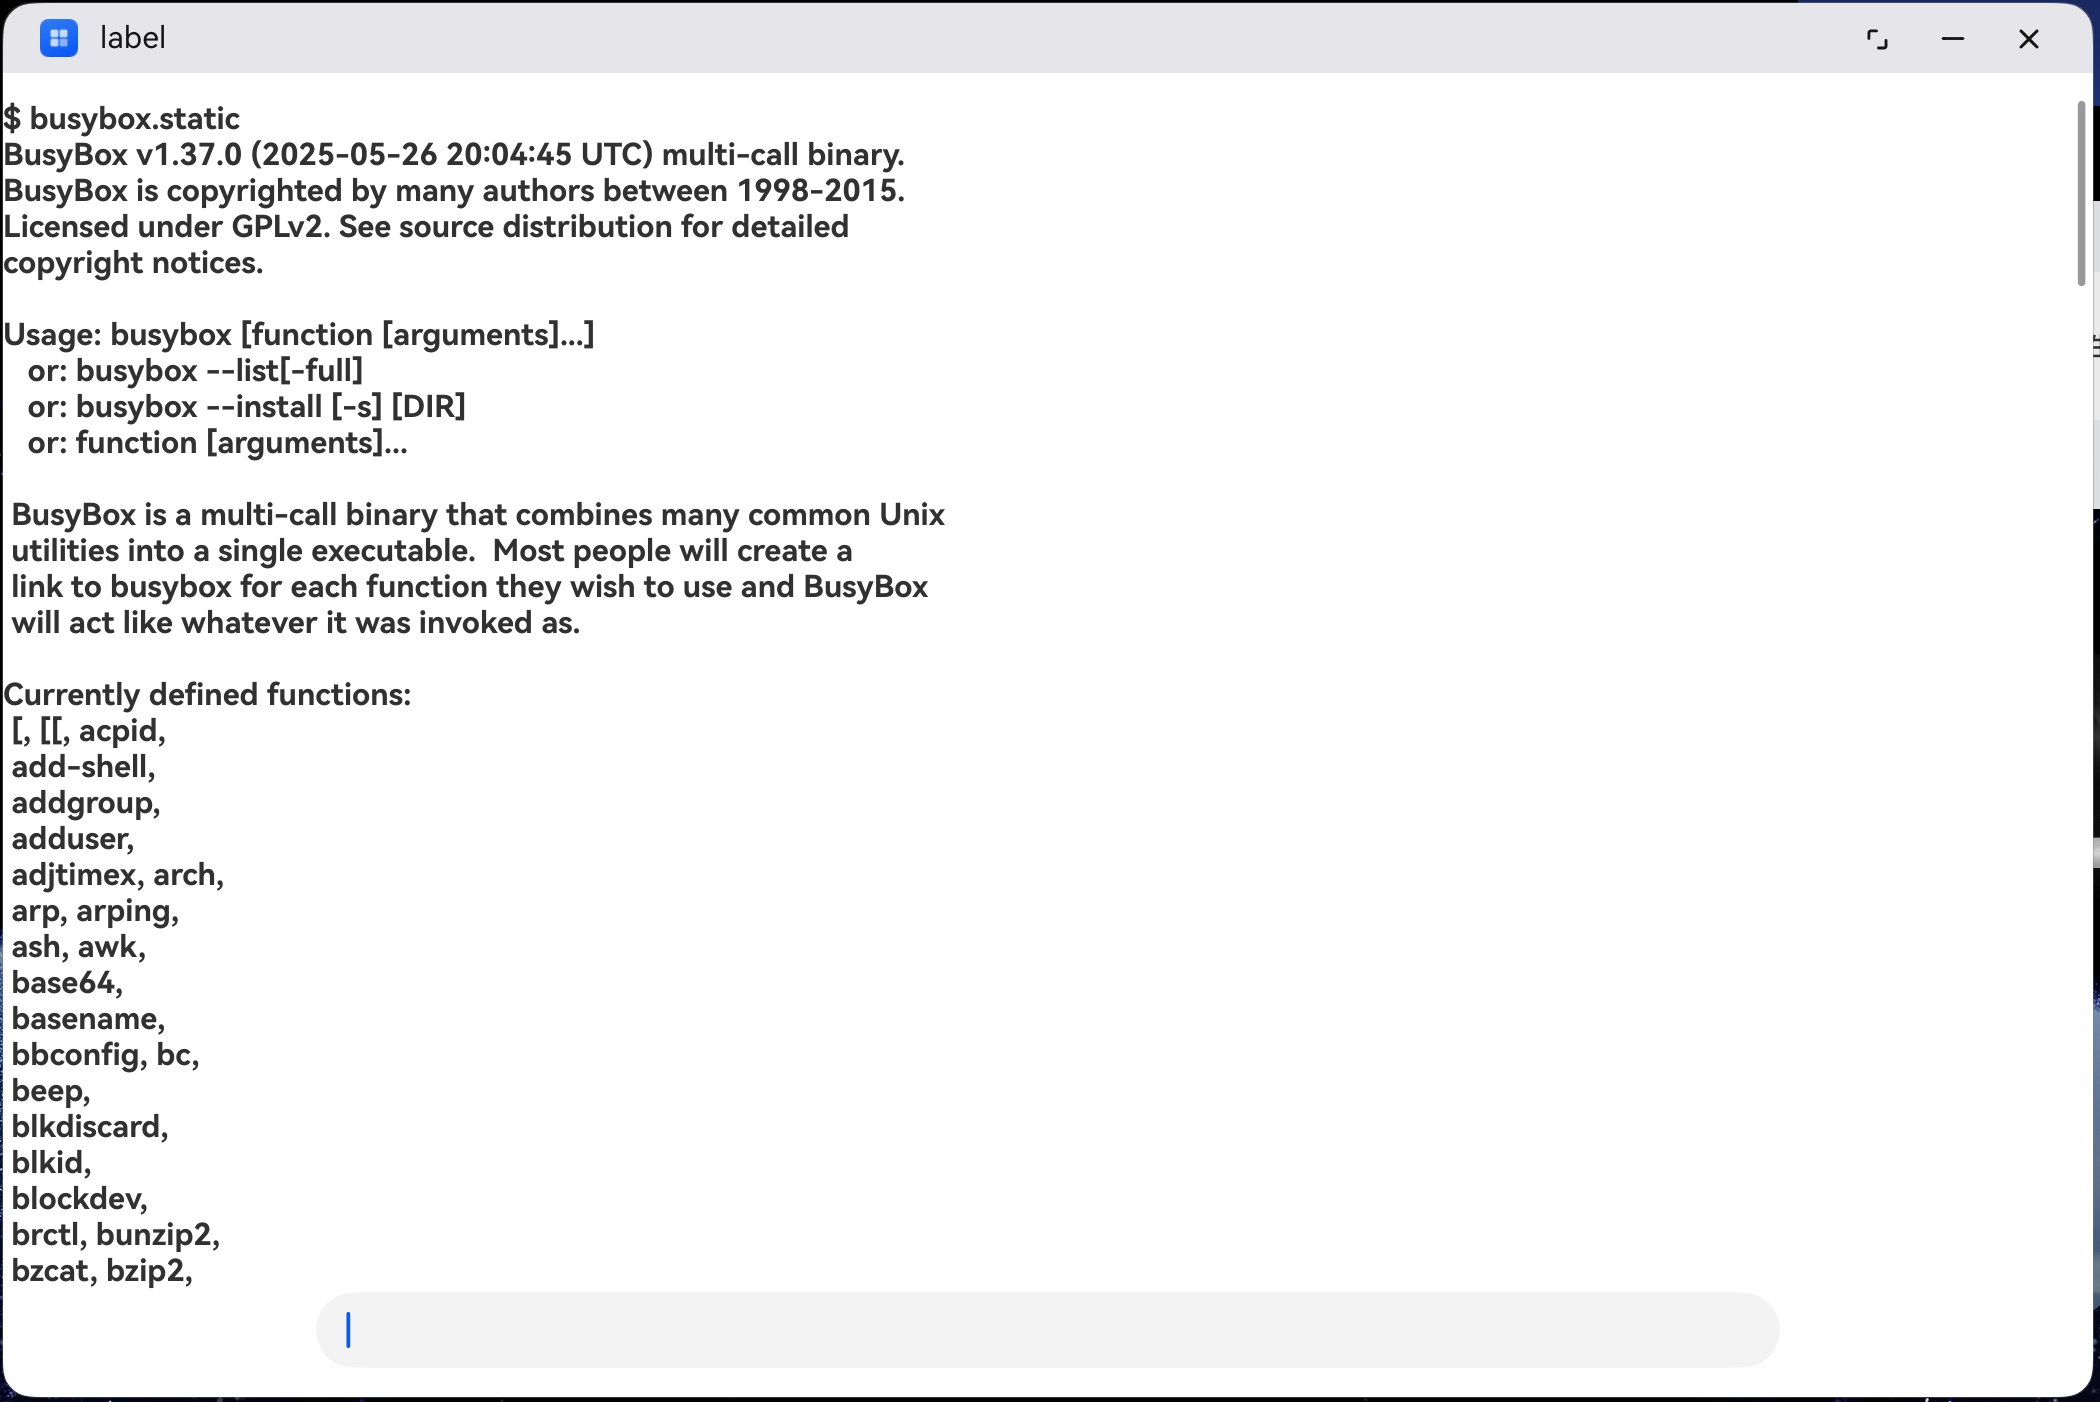
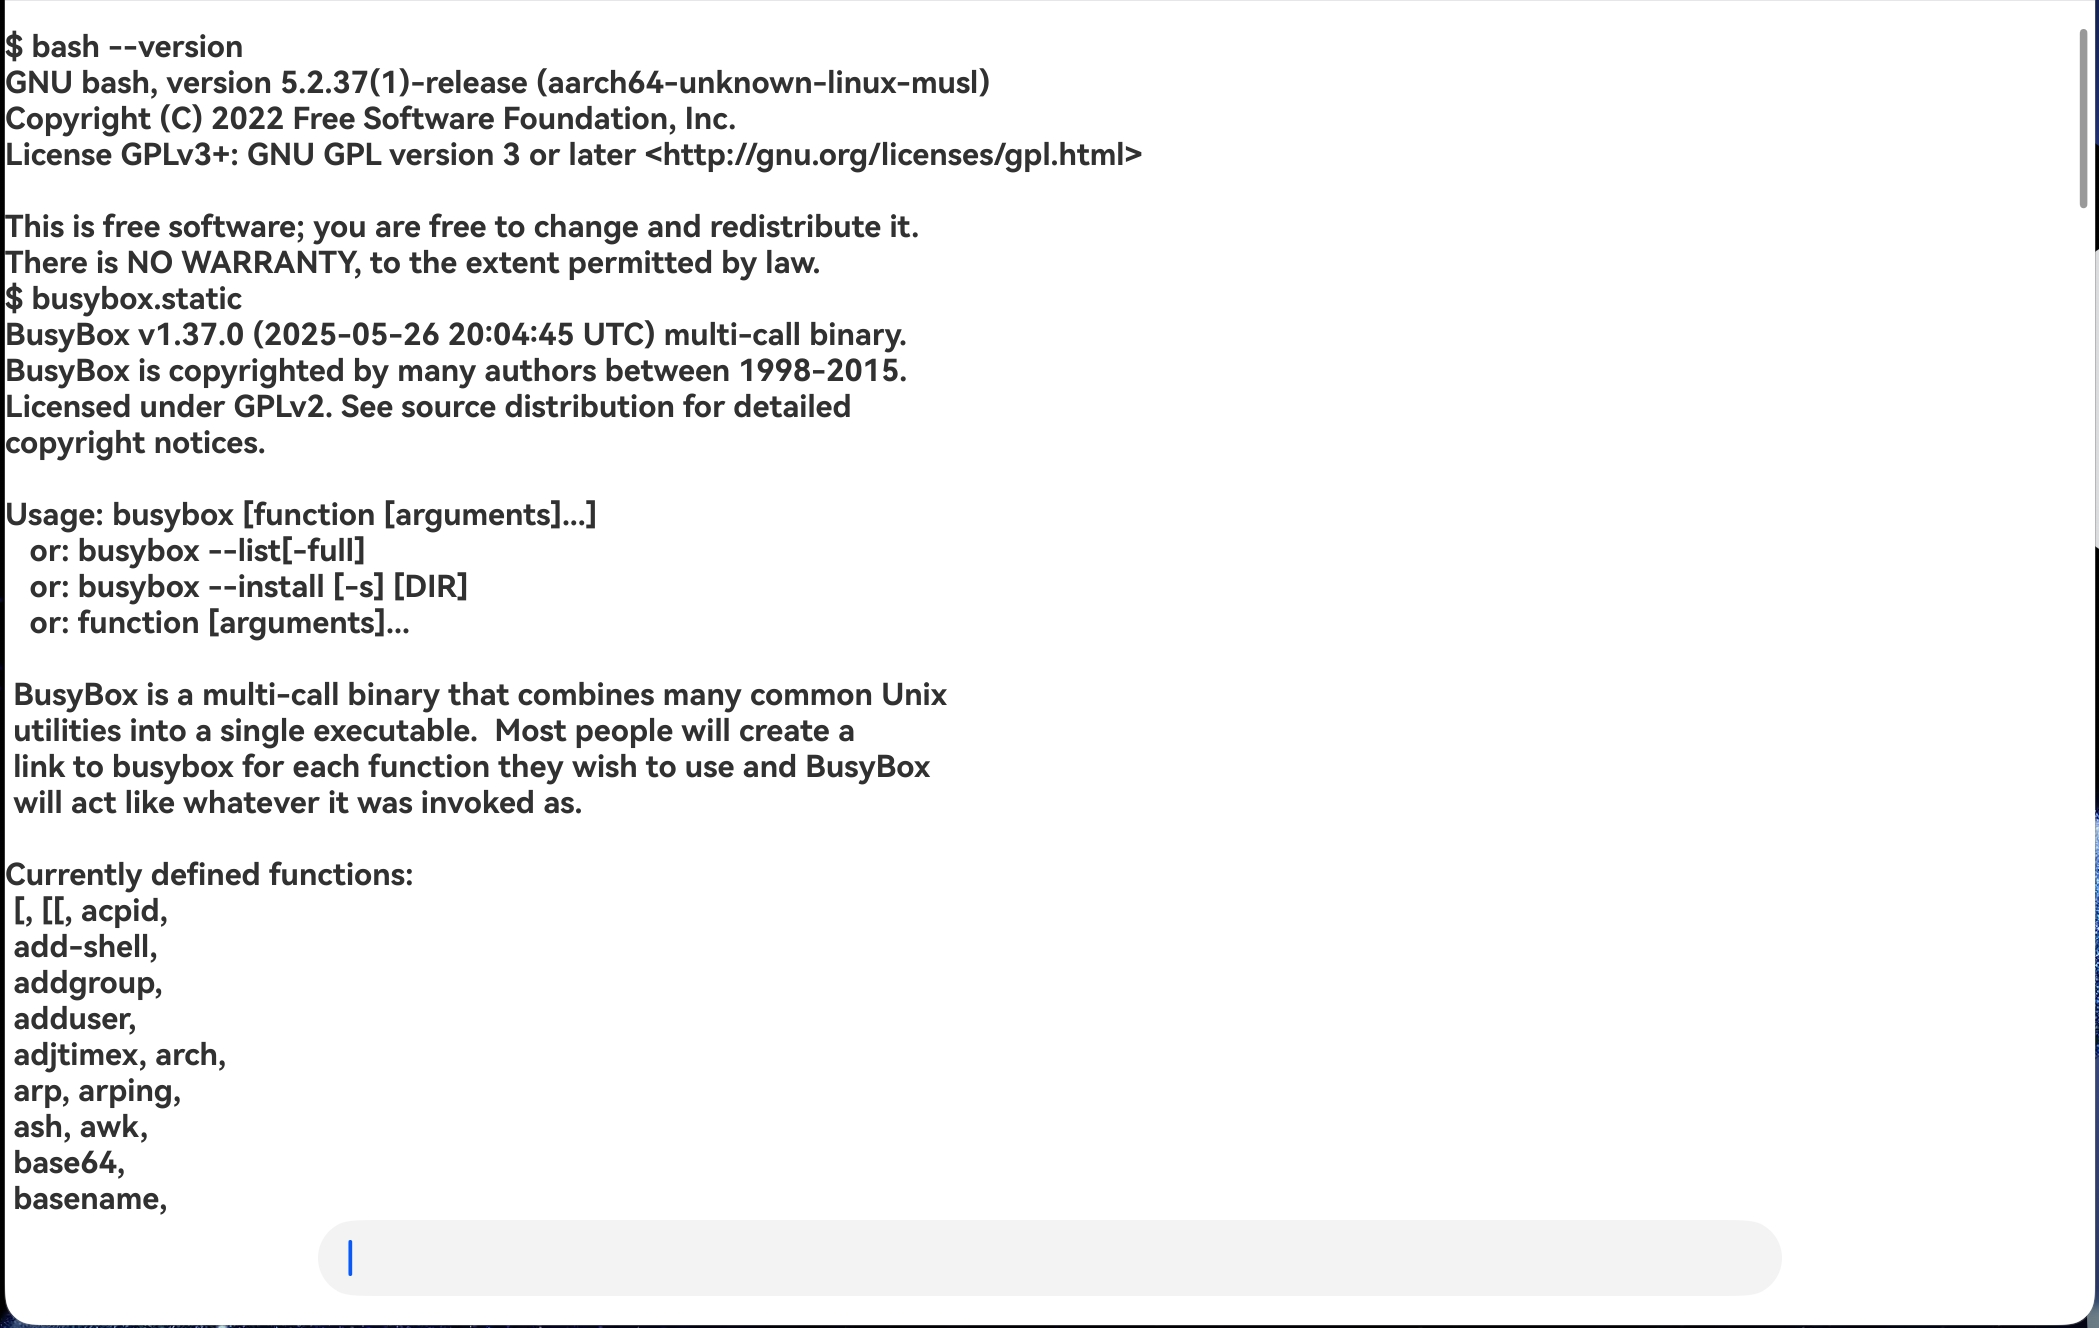
Add bash 5.2.37

Changed region(s): [[0.0, 0.0, 1.0, 1.0]]

diff --git a/README.md b/README.md
@@ -2,7 +2,7 @@
 
 Termux for HarmonyOS Computer. Working in Progress.
 
-It can run busybox.static on Huawei MateBook Pro now:
+It can run bash & busybox.static on Huawei MateBook Pro now:
 
 ![](./screenshot.jpg)
 
